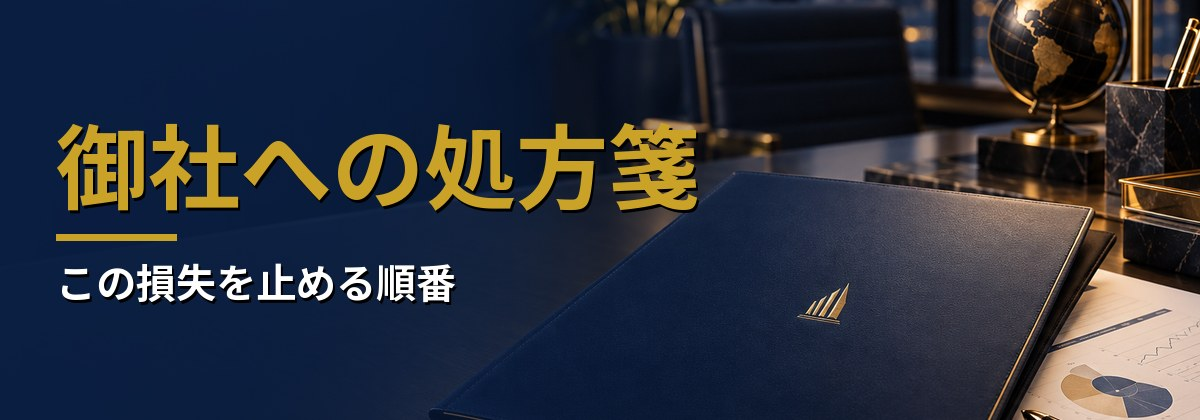
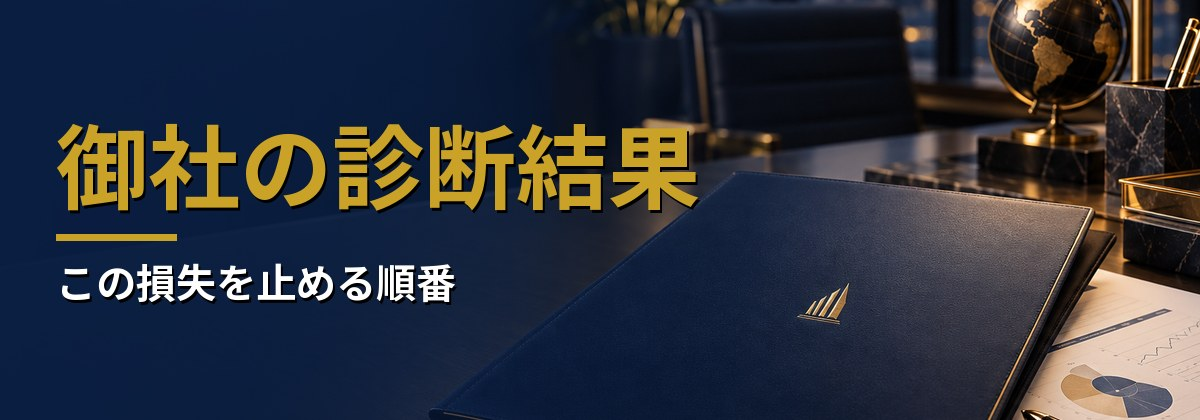
fix: 処方箋の表記を診断結果に変更

Changed region(s): [[0.185, 0.2786, 0.5858, 0.5262]]

diff --git a/app.js b/app.js
@@ -126,7 +126,7 @@
     if (cur < resultIdx) {
       var remain = resultIdx - cur; left.textContent = 'あと' + remain + '問';
       var p = Math.round((cur / resultIdx) * 100); pct.textContent = p + '%'; fill.style.width = p + '%';
-    } else { left.textContent = cur < screens.length - 1 ? '処方箋まであと少し' : '完了'; pct.textContent = '100%'; fill.style.width = '100%'; }
+    } else { left.textContent = cur < screens.length - 1 ? '診断結果まであと少し' : '完了'; pct.textContent = '100%'; fill.style.width = '100%'; }
   }
 
   // ---------- 描画 ----------
@@ -500,7 +500,7 @@
     if (cs.length) el.appendChild(h('<div class="card"><h3 style="margin-top:0">同業は、もう動いています</h3>' + caseHtml(cs[0]) + (zero ? '' : '<p class="sub">その会社との差は、毎年この額ずつ開きます。</p>') + '</div>'));
     el.appendChild(h('<p class="pardon">悪いのは社長ではありません。何から始めるかを、誰も順番で教えてくれなかっただけです。</p>'));
     if (false) el.appendChild(h('<div class="card"><h3 style="margin-top:0">入れて終わりだと、戻らない分</h3><p>いまの現場の状態から推計した定着率は <b>' + r.retention_rate + '%</b>。このまま入れると、約<span class="danger">' + man(C.roundYen(r.unrecovered_mid)) + '</span>分は現場で使われずに戻らない可能性があります。</p></div>'));
-    var nav = navBar('処方箋を見る', true, function () { ga('diag_result_next'); return true; }); el.appendChild(nav);
+    var nav = navBar('診断結果を見る', true, function () { ga('diag_result_next'); return true; }); el.appendChild(nav);
     // 前提
     var det = h('<details class="assump"><summary>この計算の前提（すべて開示）</summary></details>');
     det.addEventListener('toggle', function () { if (det.open) { S.a.assumptions_opened = true; save(); ga('diag_assumptions_open'); } });
@@ -526,7 +526,7 @@
     var route = C.decideRoute(a); S.route = route;
     var est = C.trainingEstimate(a);
     var why = { A: '使われる仕組みまでAMI側で巻き取ります。入れて終わりにしないための順番です。', B: '入れる前に、使える人を全社で作ります。定着の第一歩です。', C: '経営と幹部が先に使えるようになると、現場に広がる順番が作れます。', D: '入れる前に、現場で使える人を作ります。定着の第一歩です。' }[route];
-    var el = h('<div><div class="hero-img"><img src="img/header_presc.jpg" alt="御社への処方箋"></div><h2>' + esc(LABELS.route[route]) + '</h2><span class="route-tag">ルート ' + route + '</span></div>');
+    var el = h('<div><div class="hero-img"><img src="img/header_presc.jpg" alt="御社の診断結果"></div><h2>' + esc(LABELS.route[route]) + '</h2><span class="route-tag">ルート ' + route + '</span></div>');
     var body = '';
     if (route === 'A' || route === 'B') body += '<div class="card"><h3 style="margin-top:0">AMI（経営×AI・6ヶ月）</h3><p class="small">補助金・融資で投資負担を圧縮できる可能性があります（採択を保証するものではありません）。</p></div>';
     if (route !== 'A') {

diff --git a/index.html b/index.html
@@ -18,7 +18,7 @@
 </div>
 <div class="toast" id="toast"></div>
 <script src="https://static.line-scdn.net/liff/edge/2/sdk.js"></script>
-<script src="config.js?v=59"></script>
+<script src="config.js?v=60"></script>
 <script src="calc.js?v=58"></script>
 <script src="app.js?v=58"></script>
 </body>
